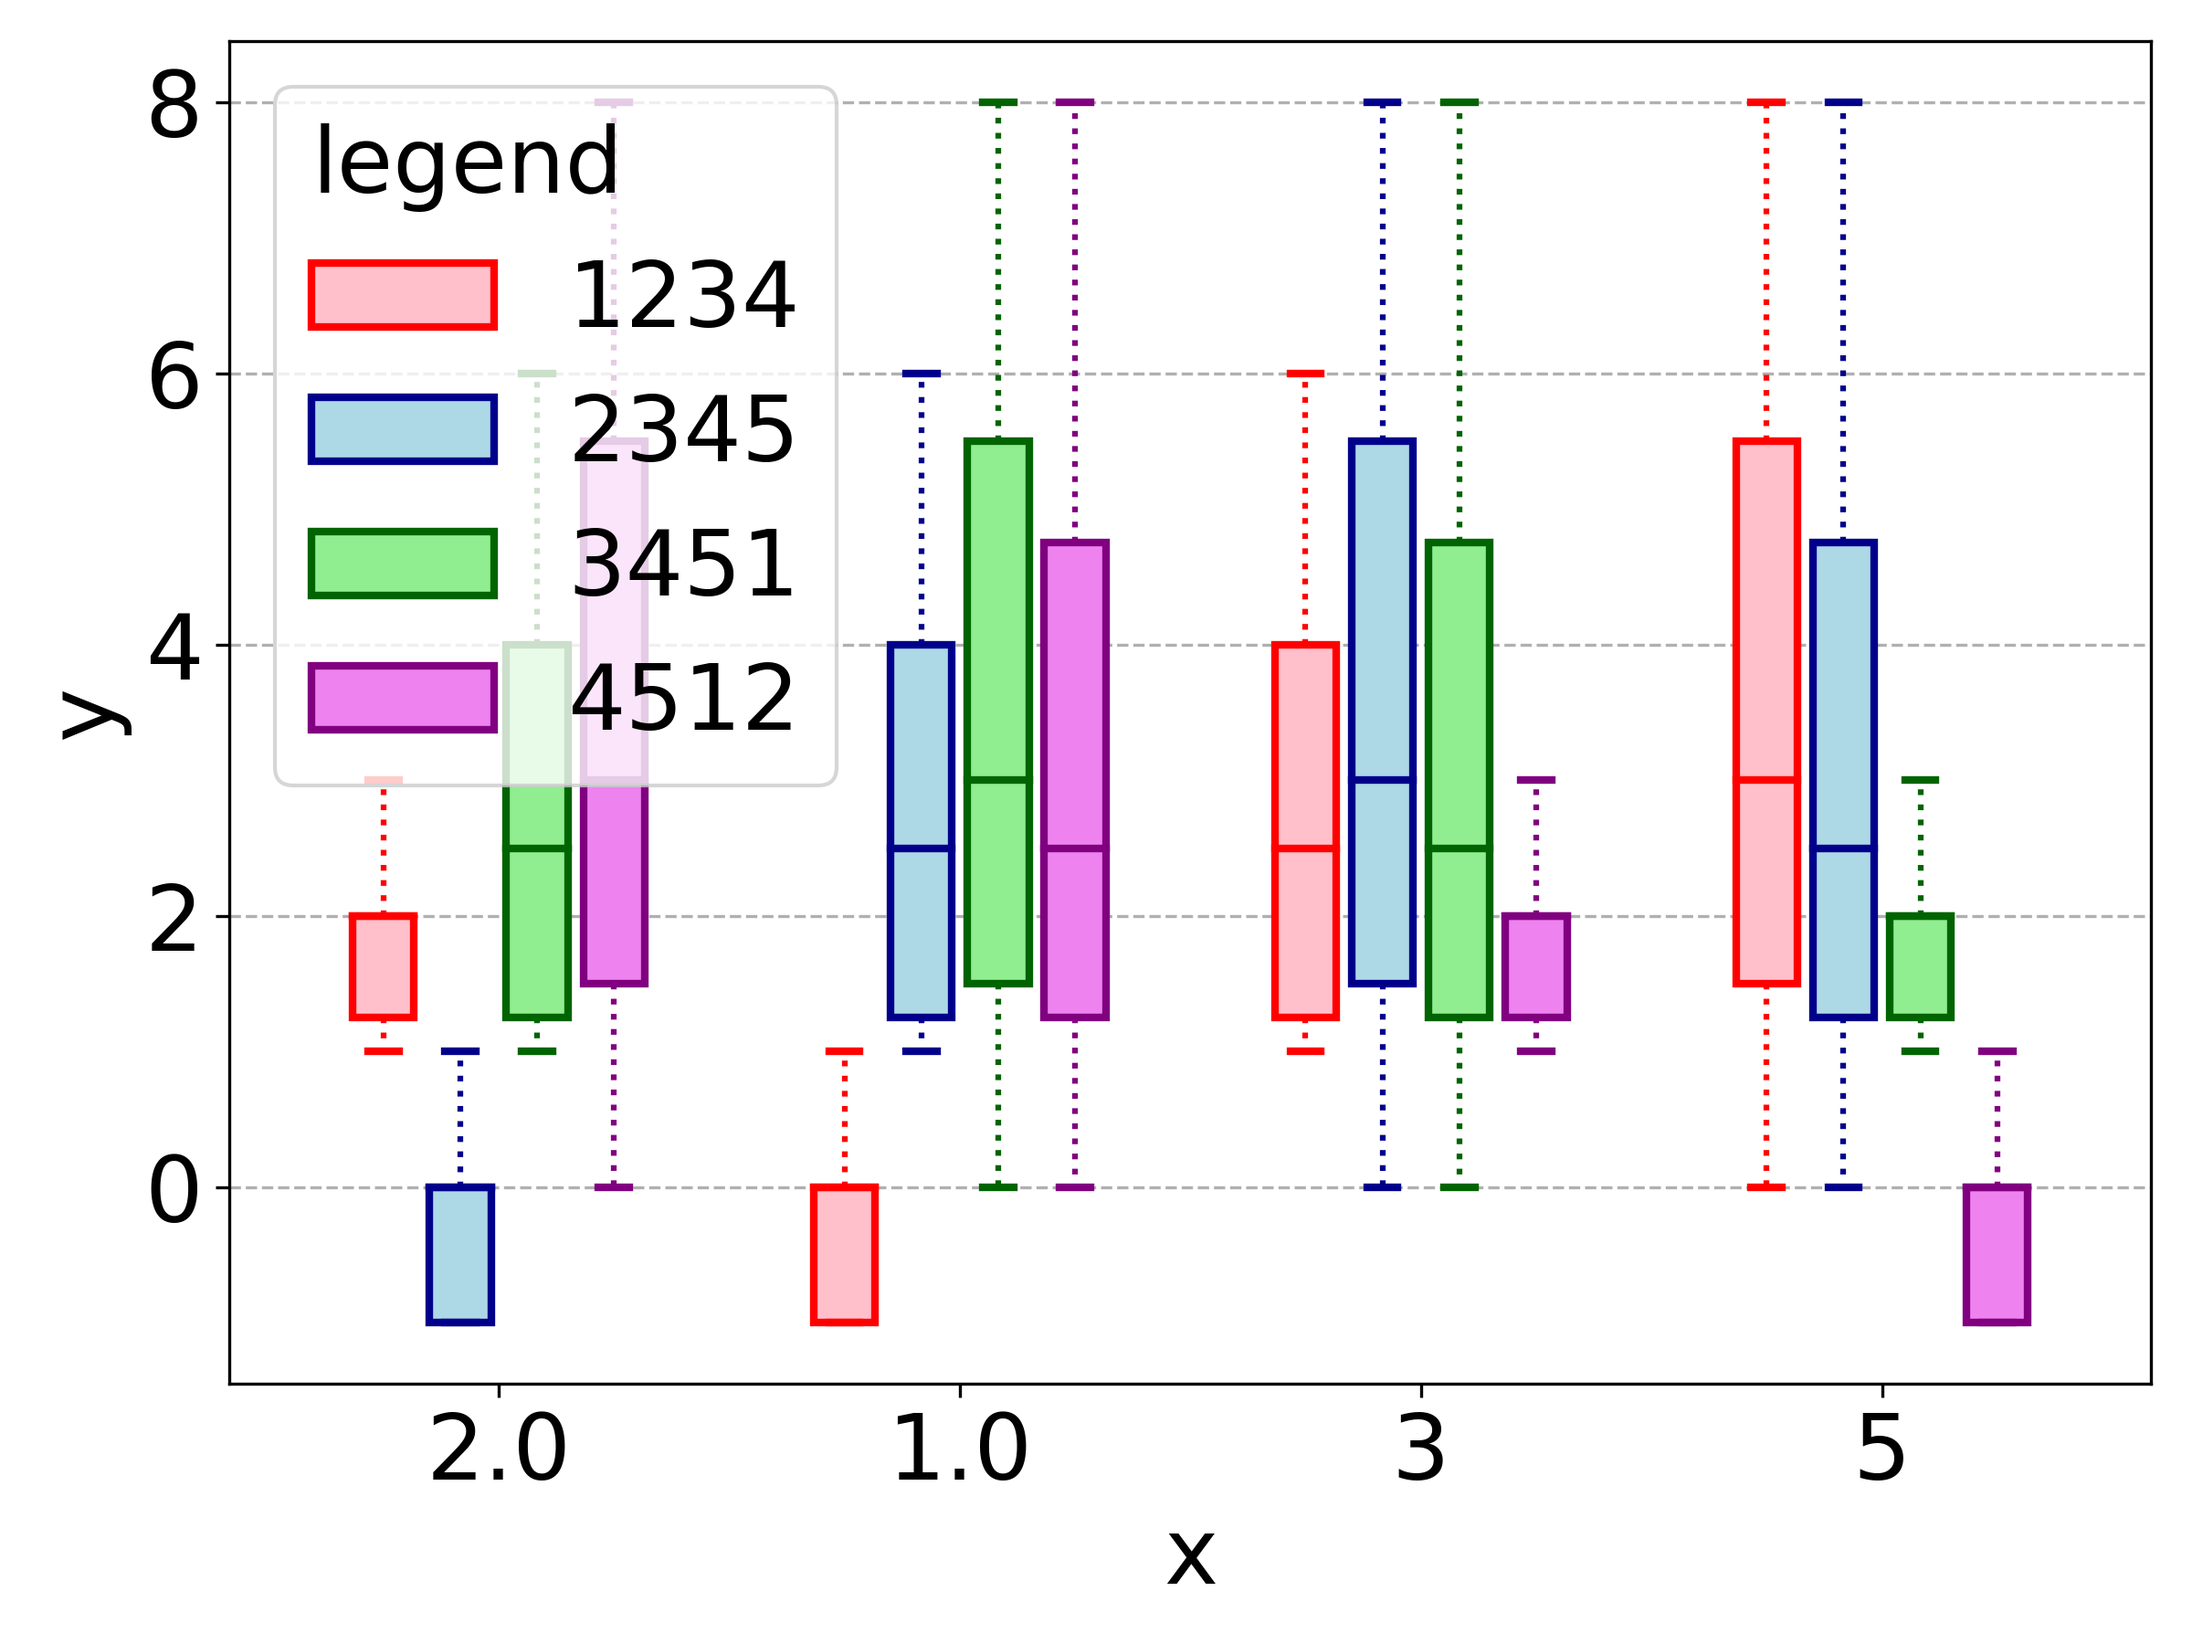
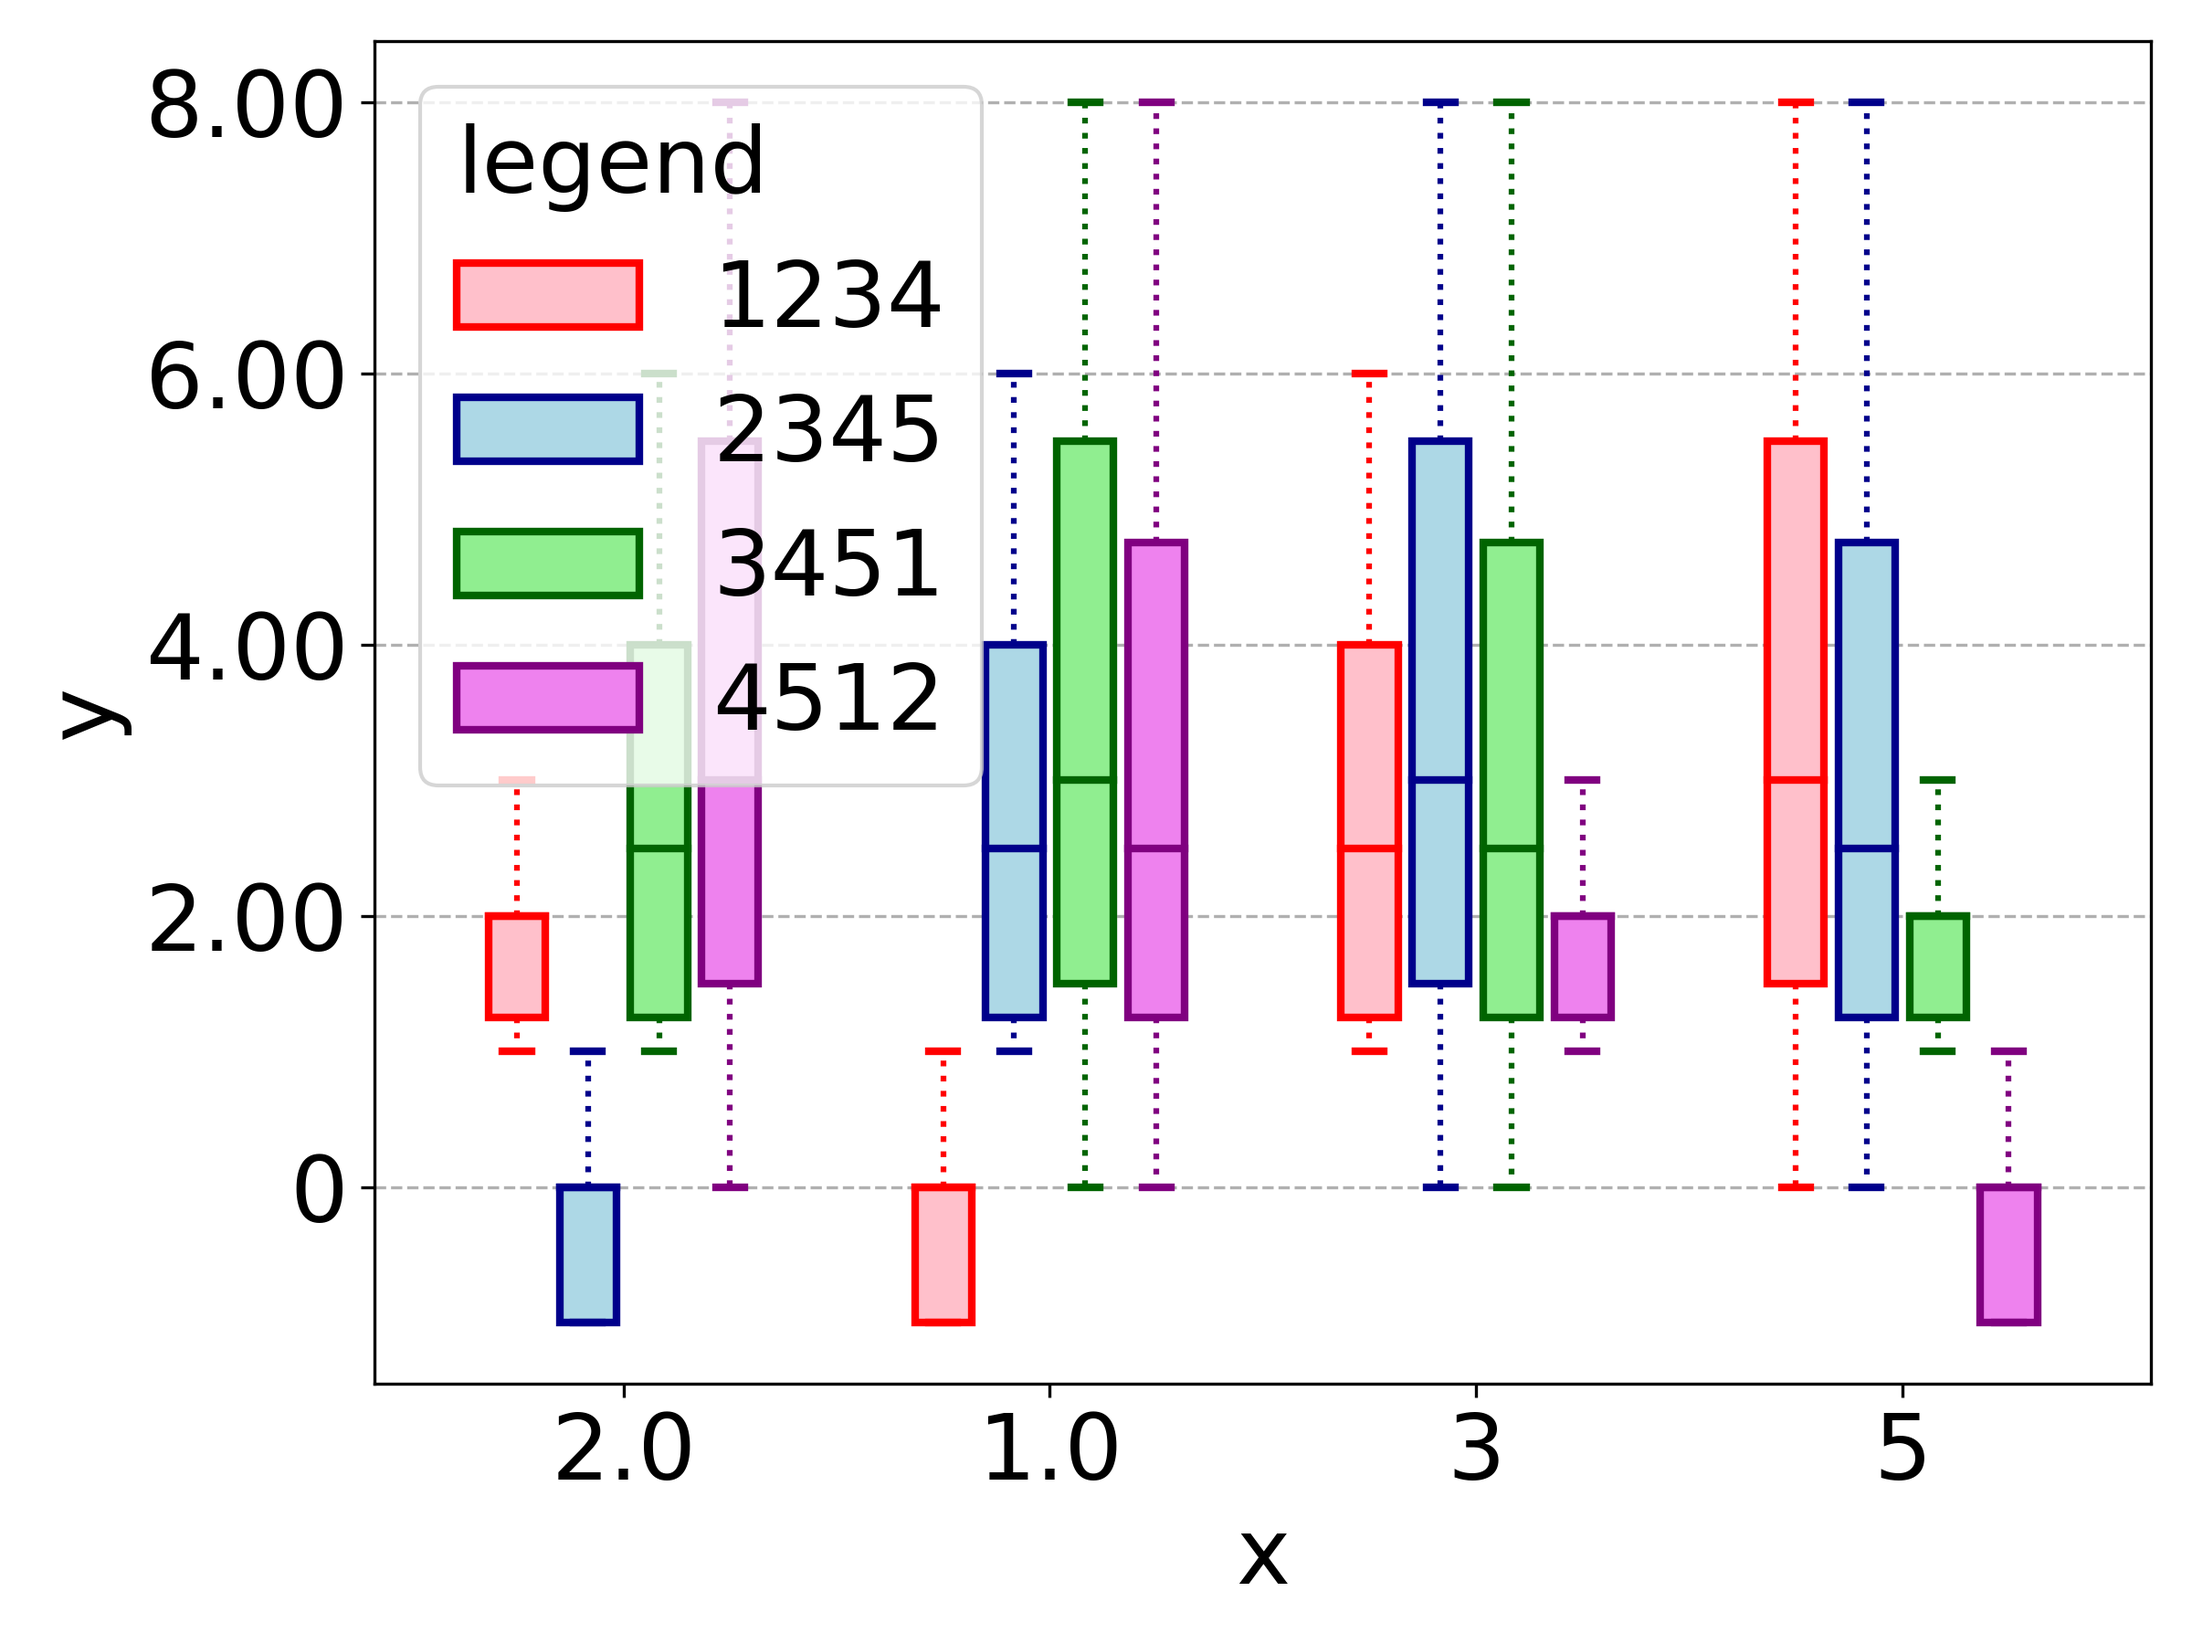
Update cdf_plot xy_tick_ndigits

diff --git a/pyplotter/plot.py b/pyplotter/plot.py
@@ -33,7 +33,8 @@ class Plotter(Pyplot_config):
         pass
 
     # 用于画折线图, 有几条线就画几个
-    def plot_lines(self, x_list=None, y_list=None, legend_label_list=None, x_label="x", y_label="y", title=None, x_grid=False, y_grid=True, y_min=None, y_max=None,
+    def plot_lines(self, x_list=None, y_list=None, legend_label_list=None, x_label="x", y_label="y", title=None,
+                   x_grid=False, y_grid=True, y_min=None, y_max=None, x_tick_ndigits=1, y_tick_ndigits=2,
                    save_root="./", filename="demo.png", is_show=False,
                    legend_loc="best", legend_title="legend"):
         # 如果 save_root 没有创建，则创建一个
@@ -60,6 +61,13 @@ class Plotter(Pyplot_config):
         if legend_label_list != None:
             plt.legend(fontsize=self.legend_size, loc=legend_loc, title=legend_title,
                        title_fontsize=self.legend_size)  # 将样例显示出来
+
+        # 让角标变0
+        ax = plt.gca()
+        x_formatter = CustomFormatter(ndigits=x_tick_ndigits)
+        y_formatter = CustomFormatter(ndigits=y_tick_ndigits)
+        ax.xaxis.set_major_formatter(x_formatter)
+        ax.yaxis.set_major_formatter(y_formatter)
 
         # 调整 tick 的字体大小
         plt.xticks(fontsize=self.tick_size)
@@ -90,7 +98,7 @@ class Plotter(Pyplot_config):
             plt.show()
 
     # 绘制条形图
-    def plot_bars(self, x_label="x", y_label="y", legend_title="legend", legend_ncol=1, bbox_to_anchor=None,
+    def plot_bars(self, x_label="x", y_label="y", legend_title="legend", legend_ncol=1, bbox_to_anchor=None, x_tick_ndigits=1, y_tick_ndigits=2,
                   legend_loc="best", x_data=None, bar_data_list=None, legend_label_list=None, y_min=None, y_max=None,
                   x_grid=False, y_grid=True, save_root="./", filename="demo.png", is_hatch=False,
                   is_show=False):
@@ -117,6 +125,11 @@ class Plotter(Pyplot_config):
         plt.xticks([r + (len(bar_data_list) - 1) / 2 * self.bar_width for r in range(len(x_data))], x_data,
                    size=self.label_size)
         plt.yticks(size=self.label_size)
+
+        # 让角标变0
+        ax = plt.gca()
+        y_formatter = CustomFormatter(ndigits=y_tick_ndigits)
+        ax.yaxis.set_major_formatter(y_formatter)
 
         # 创建图例
         legend = plt.legend(fontsize=self.legend_size, title=legend_title, loc=legend_loc, ncol=legend_ncol,
@@ -150,12 +163,6 @@ class Plotter(Pyplot_config):
         pass
 
     @staticmethod
-    def formatnum(x, pos, cmd="%.2f"):
-        if x == 0:
-            return f'{int(x)}'
-        return cmd % x
-
-    @staticmethod
     def cal_cdf(input_data):
         val, cnt = np.unique(input_data, return_counts=True)
         pmf = cnt / len(input_data)
@@ -179,7 +186,6 @@ class Plotter(Pyplot_config):
         # 让角标变0
         x_formatter = CustomFormatter(ndigits=x_tick_ndigits)
         y_formatter = CustomFormatter(ndigits=y_tick_ndigits)
-
         ax.xaxis.set_major_formatter(x_formatter)
         ax.yaxis.set_major_formatter(y_formatter)
 
@@ -219,63 +225,10 @@ class Plotter(Pyplot_config):
         pass
 
 
-    def plot_cdfs_1(self, x_label="x", y_label="cdf", legend_title="legend", legend_ncol=1, bbox_to_anchor=None,
-                  legend_loc="best", cdf_data_list=None, legend_label_list=None, is_marker=False, linewidth=2, alpha=1,
-                  save_root="./", filename="demo.png", is_show=False):
-        # 画布
-        fig = plt.figure(figsize=self.figsize, dpi=self.dpi)
-        ax = fig.add_subplot(111)
-        # 设置轴的标签字体和大小
-        ax.set_xlabel(x_label, fontdict={'size': self.label_size})
-        ax.set_ylabel(y_label, fontdict={'size': self.label_size})
-        # 调整 tick 的字体大小
-        plt.xticks(fontsize=self.tick_size)
-        plt.yticks(fontsize=self.tick_size)
-        # 让角标变0
-        formatter = FuncFormatter(self.formatnum)
-        ax.xaxis.set_major_formatter(formatter)
-        ax.yaxis.set_major_formatter(formatter)
-        # 计算cdf的值
-        for index, (cdf_data, cdf_label) in enumerate(zip(cdf_data_list, legend_label_list)):
-            counts, bin_edges = np.histogram(cdf_data, bins=100, density=True)
-            cdf = np.cumsum(counts)
-            x = bin_edges[1:]
-            y = cdf
-            # 画图
-            if is_marker:
-                marker = self.marker_list[index]
-            else:
-                marker = None
-            ax.plot(
-                x, y,
-                color=self.color_list[index],
-                linestyle=self.linestyle_list[index],
-                dashes=self.dash_list[index],
-                marker=marker,
-                linewidth=linewidth,
-                alpha=alpha,
-                label=cdf_label,
-            )
-        # 创建图例
-        legend = plt.legend(fontsize=self.legend_size, title=legend_title, loc=legend_loc, ncol=legend_ncol,
-                            bbox_to_anchor=bbox_to_anchor)
-        legend.get_title().set_fontsize(fontsize=self.legend_size)
-        legend._legend_box.align = "left"
-
-        plt.tight_layout()
-        savepath = os.path.join(save_root, filename)
-        print(f"图片保存到:{savepath}")
-        plt.savefig(savepath)
-        # 展示图片
-        if is_show:
-            plt.show()
-        pass
-
-
     # 绘制 box 图
     def plot_boxes(self, x: List[str]=None, box_data_list=None, legend_label_list=None, x_label="Replicas", y_label="Cost",
-                  legend_title="legend", legend_loc="best", legend_ncol=1, bbox_to_anchor=None, save_root="./",
-                  filename="demo.png", is_show=False):
+                  legend_title="legend", legend_loc="best", legend_ncol=1, bbox_to_anchor=None, x_tick_ndigits=1, y_tick_ndigits=2,
+                   save_root="./", filename="demo.png", is_show=False):
 
         fig = plt.figure(figsize=self.figsize, dpi=300)
         ax = fig.add_subplot(111)
@@ -317,6 +270,11 @@ class Plotter(Pyplot_config):
 
         ax.set_xticklabels(x, fontsize=self.label_size, rotation=0)
         ax.tick_params(axis='both', which='major', labelsize=self.label_size)
+
+        # 让角标变0
+        ax = plt.gca()
+        y_formatter = CustomFormatter(ndigits=y_tick_ndigits)
+        ax.yaxis.set_major_formatter(y_formatter)
 
 
         plt.xticks(size=self.label_size)
